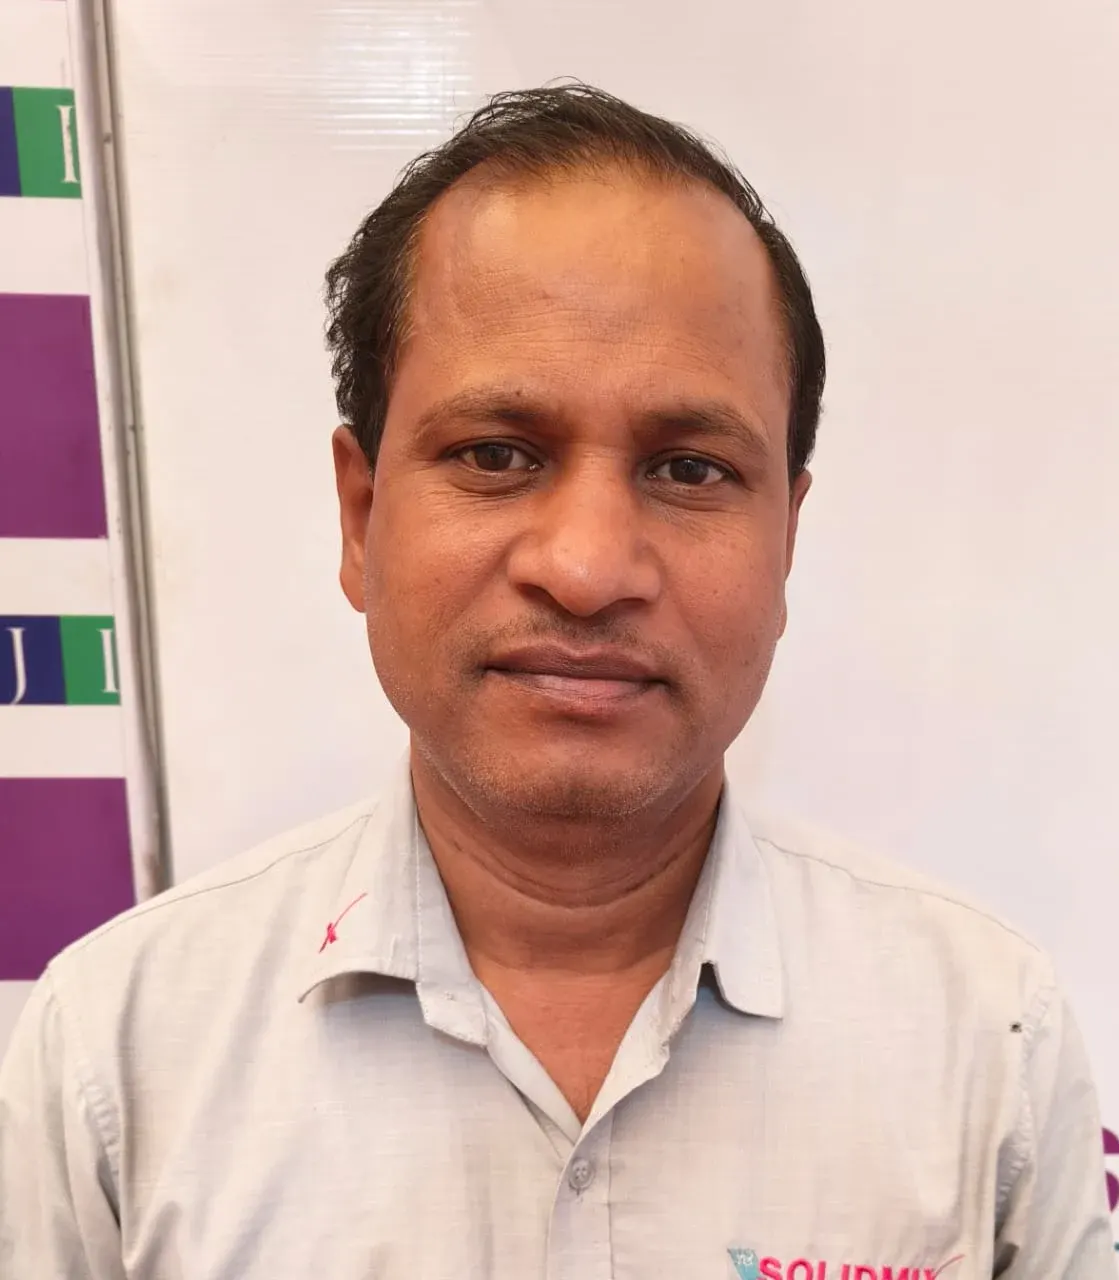
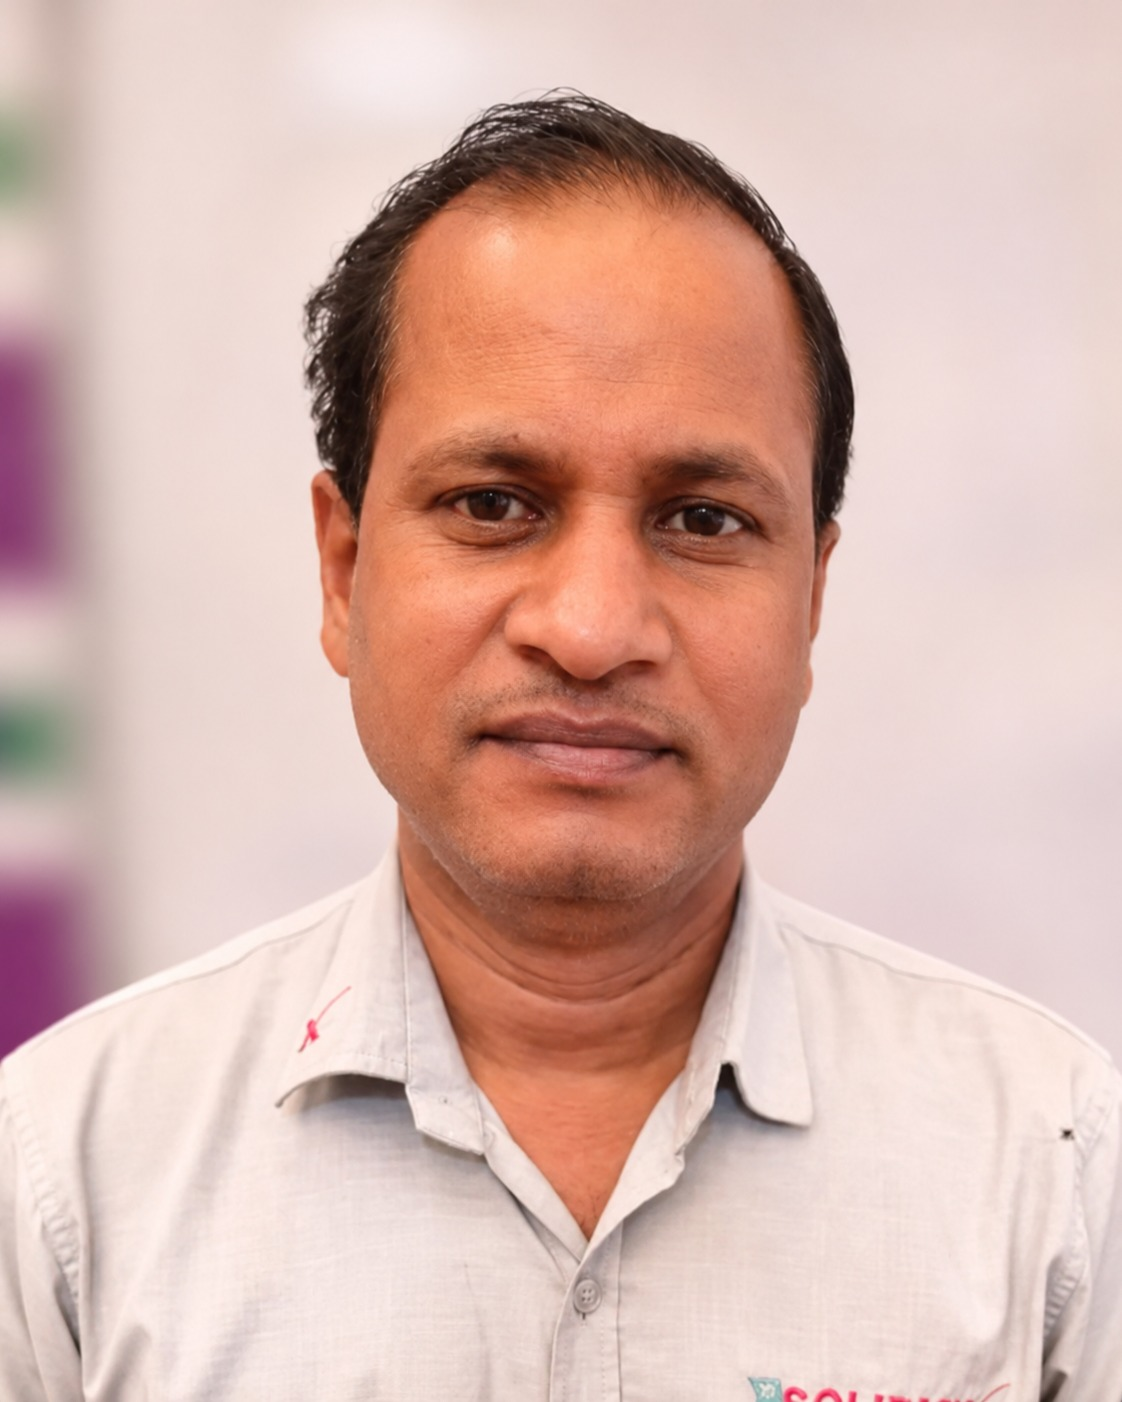
feat(team): replace Brijesh Choubey and Pitabas Sahoo photos
Swaps in the lossless WebP photos Ma'am sent, same file names and path,
verified pixel-identical to the originals. No code or JSON changes.

Claude-Session: https://claude.ai/code/session_012eBvkyRAqVC8ao2obdpWEp

Changed region(s): [[0.0, 0.0, 0.7596, 1.0], [0.6381, 0.75, 1.0, 1.0], [0.3342, 0.9688, 0.3646, 1.0]]

diff --git a/docs/BUILD-LOG.md b/docs/BUILD-LOG.md
@@ -464,3 +464,7 @@ Verified: `rm -rf .next && npx tsc --noEmit` clean; `npm run build` succeeded (8
 2026-11-28 Our Team page split into Our Directors and Our Team, and 24x7x365 days line added above the Working hours table on home, on feat/office-address; code build and tsc clean; Playwright run-all pending at commit time; not merged
 
 2026-11-28 merged feat/office-address into main (7eaf073), pushed; live Vercel deploy follows; still waiting: Team Dashboard edits of 3 Convex posts on LIVE (site-mix-concrete and solidmix-readymix-concrete office line, solidmix-rmc-supplier link to /project-gallery/), Ma'am's written confirmation of the office address, Search Console re-index of /project-gallery/ and /plant-gallery/, Google Business Profile address, RESERVED_SLUGS update (backend, not done)
+
+## Team photos replaced: Brijesh Choubey and Pitabas Sahoo (feat/team-photos-2)
+
+Replaced `public/images/content/brijesh-choubey.webp` and `public/images/content/whatsapp-image-2025-12-13-at-2-37-23-pm.webp` (Pitabas Sahoo's card photo in `src/content/pages/our-team.json`) in place with the photos Ma'am sent — lossless WebP and pixel-identical to the originals (verified by pixel fingerprint), about 1.2 MB and 0.6 MB (`next/image` serves resized versions, not these full files, to visitors). The card frame on `/our-team/` is 4:5 with `object-top`, so Brijesh's photo (now 1144x1375, a taller-than-4:5 ratio) loses about 4% off each side when cropped into the frame. No code change, no JSON change — same file names, same path. Not merged.
